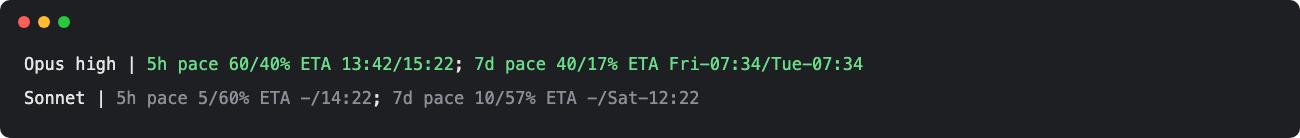
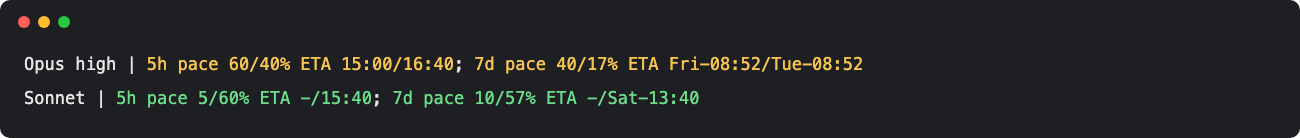
AI update: colour semantics, floor used%, now-before-elapsed, README notes

Changed region(s): [[0.0923, 0.4058, 0.6769, 0.5217], [0.0923, 0.6377, 0.5538, 0.7536]]

diff --git a/statusline.py b/statusline.py
@@ -10,7 +10,7 @@ Reads the status-line JSON on stdin (model, effort, rate_limits). Stdlib only, n
 """
 import datetime, json, math, sys, time
 
-DIM, RED, GRN, RST = "\033[2m", "\033[31m", "\033[32m", "\033[0m"
+RED, YEL, GRN, RST = "\033[31m", "\033[33m", "\033[32m", "\033[0m"
 WINDOWS = {"5h": 5 * 3600, "7d": 7 * 86400}
 RATE_KEYS = {"5h": "five_hour", "7d": "seven_day"}
 TIME_FMT = {"5h": "%H:%M", "7d": "%a-%H:%M"}
@@ -33,10 +33,10 @@ def epoch(v):
 
 def eta(w, util, elapsed, now, reset):
     """Linear extrapolation: the share used per share of elapsed time stays constant."""
-    if util <= 0 or elapsed <= 0:
-        return "-"
     if util >= 1:
         return "now"
+    if util <= 0 or elapsed <= 0:
+        return "-"
     at = now + (1 - util) / util * elapsed * WINDOWS[w]
     return "-" if at >= reset else fmt(w, at)
 
@@ -56,8 +56,8 @@ def pace_part(rate, now):
         else:
             elapsed = min(1.0, max(0.0, 1 - (reset - now) / length))
         out = eta(w, util, elapsed, now, reset)
-        col = DIM if out == "-" else RED if util >= 1 else GRN
-        parts.append("%s%s pace %d/%d%% ETA %s/%s%s" % (col, w, round(util * 100), round(elapsed * 100), out,
+        col = GRN if out == "-" else RED if util >= 1 else YEL
+        parts.append("%s%s pace %d/%d%% ETA %s/%s%s" % (col, w, int(util * 100), round(elapsed * 100), out,
                                                        fmt(w, reset) if now < reset else "now", RST))
     return "; ".join(parts)
 

diff --git a/tests/test_statusline.py b/tests/test_statusline.py
@@ -21,6 +21,17 @@ class Eta(unittest.TestCase):
     def test_iso_reset(self):
         self.assertEqual(sl.epoch("2027-01-15T08:00:00Z"), 1800000000.0)
 
+    def test_full_without_elapsed(self):
+        self.assertEqual(sl.eta("5h", 1.0, 0.0, NOW, NOW + 5 * 3600), "now")
+
+    def test_almost_full_not_rounded_up(self):
+        out = sl.pace_part({"five_hour": {"used_percentage": 99.6, "resets_at": NOW + 9000}}, NOW)
+        self.assertIn("5h pace 99/", out)
+
+    def test_iso_end_to_end(self):
+        out = sl.pace_part({"five_hour": {"used_percentage": 60, "resets_at": "2027-01-15T08:00:00Z"}}, 1800000000.0 - 3 * 3600)
+        self.assertIn("5h pace 60/40%", out)
+
     def test_stale_reset(self):
         out = sl.pace_part({"five_hour": {"used_percentage": 50, "resets_at": NOW - 10}}, NOW)
         self.assertIn("5h pace 0/0% ETA -/now", out)

diff --git a/README.md b/README.md
@@ -18,7 +18,7 @@ Opus high | 5h pace 60/40% ETA 13:42/15:22; 7d pace 40/17% ETA Fri-07:34/Tue-07:
 
 **How the ETA is computed.** Linear extrapolation: the used share per elapsed share of the window stays constant,
 so `eta = now + (1 - used) / used * elapsed_time`. No history is stored; it is recomputed from the numbers Claude Code passes on
-every refresh. Colours: green = will run out before the reset, grey = safe, red = already at 100%.
+every refresh. Colours: green = safe (the limit will not run out before the reset), yellow = will run out before the reset, red = already at 100%.
 
 ## Install
 
@@ -28,16 +28,19 @@ Needs Python 3 (stdlib only) and a Claude subscription (Pro/Max): `rate_limits` 
 curl -fsSL https://raw.githubusercontent.com/vespexx/claude-code-statusline-pace/main/statusline.py -o ~/.claude/statusline-pace.py
 ```
 
-Merge this key into your existing `~/.claude/settings.json` (do not replace the file), then restart Claude Code:
+Merge this key into your existing `~/.claude/settings.json` (do not replace the file), then restart Claude Code. `statusLine` is a single setting: it **replaces any status line you already have**; to go back, restore your previous `command` (or delete the key). `refreshInterval` (seconds) keeps the ETA current while you are idle:
 
 ```json
 {
   "statusLine": {
     "type": "command",
-    "command": "python3 ~/.claude/statusline-pace.py"
+    "command": "python3 ~/.claude/statusline-pace.py",
+    "refreshInterval": 60
   }
 }
 ```
+
+macOS/Linux. On Windows use `python`/`py` and an absolute path instead of `~` in `command`.
 
 ## Try it without Claude Code
 
